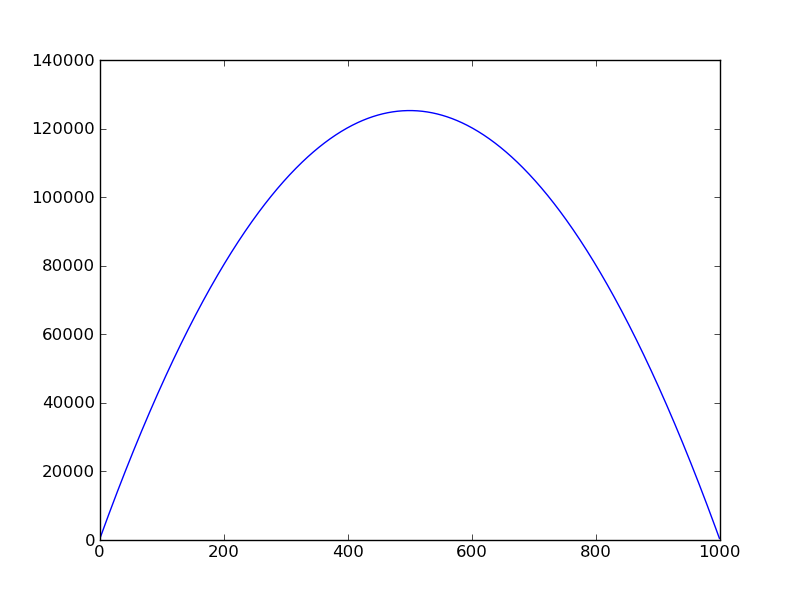
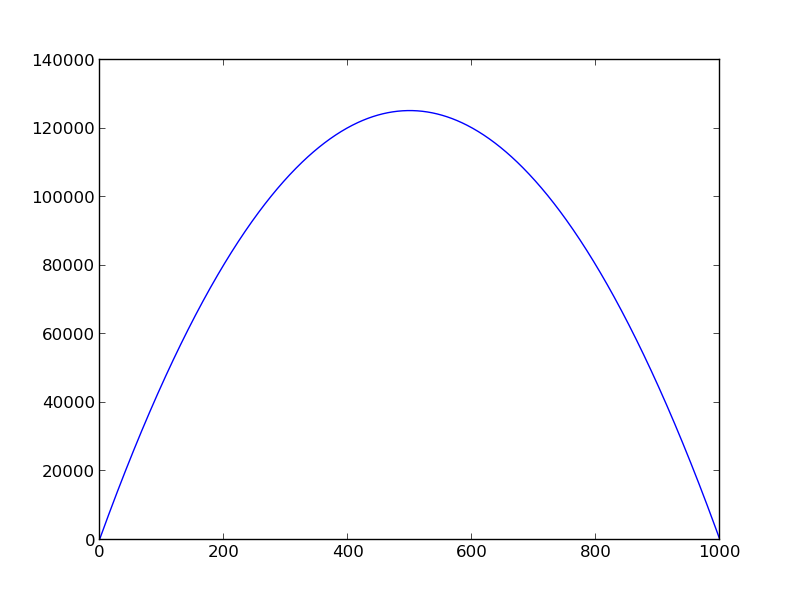
-

Changed region(s): [[0.125, 0.09, 0.9062, 0.93]]

diff --git a/compscieng1/compscieng_1_01/compscieng_1_1.tex b/compscieng1/compscieng_1_01/compscieng_1_1.tex
@@ -26,16 +26,25 @@ ozellikler? $K$'yi buyutseydik, seyrek (sparse) olacakti, yani icinde cok
 fazla sayida sifir olacakti. Su haliyle tam seyrek denemez, ama ayni
 kalipla buyutulursek seyrek olur. Eger Python kullanarak sifir olmayan
 elemanlari saydirmak isteseydik, sonuc ne gelecekti? 4x4 olan $K$ icin
-alttaki kod
+alttaki kod su sonucu verir,
 
-\lstinputlisting[language=Python]{nonzero.py}
+\begin{minted}{python}
+import numpy as np
+K = np.array([[2,-1,0,0],[-1,2,-1,0],
+              [0,-1,2,-1],[0,0,-1,2]])
+print np.count_nonzero(K)
+\end{minted}
 
-10 sonucunu verir. 4x4 = 16 icinden 10 eleman sifir degildir. Eger 100x100
-olsaydi? Matris ayni kalibi takip ederse, yani caprazi, ve caprazin bir
-alti ve bir ustu dolu kalirsa, caprazda 100 eleman olur (boyutla ayni), alt
-ve ustunde birer az eleman olur, yani 99+99 = 198. Toplayalim, 100 + 198 =
-298. Yani 100x100 = 10000 eleman icinden 298 eleman sifir degildir, geri
-kalan bir suru eleman sifirdir. Matris seyrektir. 
+\begin{verbatim}
+10
+\end{verbatim}
+
+4x4 = 16 icinden 10 eleman sifir degildir. Eger 100x100 olsaydi? Matris
+ayni kalibi takip ederse, yani caprazi, ve caprazin bir alti ve bir ustu
+dolu kalirsa, caprazda 100 eleman olur (boyutla ayni), alt ve ustunde birer
+az eleman olur, yani 99+99 = 198. Toplayalim, 100 + 198 = 298. Yani 100x100
+= 10000 eleman icinden 298 eleman sifir degildir, geri kalan bir suru
+eleman sifirdir. Matris seyrektir.
 
 Numerik hesaplamada yogun (dense -sifiri fazla olmayan-) matrisler, buyuk
 boyutlarda basimizi agritabilir. Seyrek matrisleri daha hizli cozmenin
@@ -52,26 +61,33 @@ filtreler (linear time invariant filters) ismi de veriliyor, cunku her
 satir birbirinin ayni (ve hesabimizda satirlarin zamani temsil ettigi
 kabulunden hareketle). Python ile bir Toeplitz yaratmanin yontemi soyle:
 
-\lstinputlisting[language=Python]{toep1.py}
+\begin{minted}{python}
+import scipy.linalg as lin
+K = lin.toeplitz([2, -1, 0, 0])
+print K
+\end{minted}
 
-Sonuc
-
-\begin{lstlisting}[language=Python]
+\begin{verbatim}
 [[ 2 -1  0  0]
  [-1  2 -1  0]
  [ 0 -1  2 -1]
  [ 0  0 -1  2]]
-\end{lstlisting}
+\end{verbatim}
 
 100x100 icin Toeplitz komutuna verdigimiz tek satirda daha fazla sifir
 gerekli. Icinde tamamen sifir olan bir vektor yaratiriz, basindaki birkac
 elemani istedigimiz degerle atariz. 
 
-\lstinputlisting[language=Python]{toep2.py}
+\begin{minted}{python}
+import numpy as np
+import scipy.linalg as lin
+vec = np.zeros((1,100))
+vec[0,0] = 2
+vec[0,1] = -1
+print lin.toeplitz(vec)
+\end{minted}
 
-Sonuc
-
-\begin{lstlisting}[language=Python]
+\begin{verbatim}
 [[ 2. -1.  0. ...,  0.  0.  0.]
  [-1.  2. -1. ...,  0.  0.  0.]
  [ 0. -1.  2. ...,  0.  0.  0.]
@@ -79,13 +95,27 @@ Sonuc
  [ 0.  0.  0. ...,  2. -1.  0.]
  [ 0.  0.  0. ..., -1.  2. -1.]
  [ 0.  0.  0. ...,  0. -1.  2.]]
-\end{lstlisting}
+\end{verbatim}
 
 Seyrek matrislerle islem yaptigimizi Python'a bir sekilde belirtmemiz
 lazim, eger mevcut haliyle bu matrisi cozmeye ugrasirsak, Python sifirlara
 gelene kadar onlarin sifir oldugunu bilemeyecektir. 
 
-\lstinputlisting[language=Python]{sparse.py}
+\begin{minted}{python}
+import scipy.sparse as sparse
+import numpy as np
+import scipy.linalg as lin
+vec = np.zeros((1,100))
+vec[0,0] = 2
+vec[0,1] = -1
+K = lin.toeplitz(vec)
+A = sparse.lil_matrix(K)
+print A.shape
+\end{minted}
+
+\begin{verbatim}
+(100, 100)
+\end{verbatim}
 
 Yanliz yukarida yogun matrisi once yarattim, sonra onu degistirerek seyrek
 matris yarattim, daha iyisi bastan bir seyrek matris yaratmakti. Neyse, bu
@@ -111,31 +141,31 @@ istiyorum. Orayi temizlemek istiyorum, cunku matrislerim eger ucgensel
 Birinci satiri ikiye bolup, ikinci satira eklerim. Terminoloji: 0,0
 kordinati (en ust sol kose) bu islem sirasinda pivot oldu. 
 
-\begin{lstlisting}[language=Python]
+\begin{verbatim}
  [ 2 -1    0  0]
  [ 0  3/2 -1  0]
  [ 0 -1    2 -1]
  [ 0  0   -1  2]
-\end{lstlisting}
+\end{verbatim} 
 
 Simdi pivot 3/2, ve onun altindaki degeri temizlemek istiyoruz. Ikinci
 satirin 2/3'unu alta eklersek, oradaki -1 sifirlanir. 
 
-\begin{lstlisting}[language=Python]
+\begin{verbatim}
  [ 2 -1    0    0]
  [ 0  3/2 -1    0]
  [ 0  0    4/3 -1]
  [ 0  0   -1    2]
-\end{lstlisting}
+\end{verbatim}
 
 ve sonunda
 
-\begin{lstlisting}[language=Python]
+\begin{verbatim}
  [ 2 -1    0      0]
  [ 0  3/2 -1      0]
  [ 0  0    4/3   -1]
  [ 0  0    0    5/4]
-\end{lstlisting}
+\end{verbatim}
 
 Bu gercekten hizli bir islem oldu. Python da determinanti zaten boyle
 bulacakti. Yoketme (elimination) kullanacakti, teker teker -1'leri
@@ -301,7 +331,25 @@ K, T, B, C matrislerini ayni anda yaratan bir Python programi
 surada. Kullanim mesela 4x4 boyutlari icin \lstinline!K, T, B, C = ktbc(4)!
 seklinde, bu bize tum ozel matrisleri bir kerede olusturuyor.
 
-\lstinputlisting[language=Python]{ktbc.py}
+\begin{minted}{python}
+import numpy as np
+import scipy.linalg as lin
+
+def ktbc(n):
+    vec = np.zeros((1,n))
+    vec[0,0] = 2
+    vec[0,1] = -1
+    K = lin.toeplitz(vec)
+    T = np.copy(K)
+    T[0,0] = 1
+    B = np.copy(K)
+    B[0,0] = 1
+    B[n-1,n-1] = 1
+    C = np.copy(K)
+    C[n-1,n-1] = 1
+    
+    return K, T, B, C
+\end{minted}
 
 Kapatirken su ozellikleri de ekleyelim. 
 
@@ -324,14 +372,21 @@ dogru farklilik (backward difference) matrisi de yaratabiliriz. Bu
 kullanimda matrisin sol kolonunu, ve ust satirini tamamen belirtmek
 gerekiyor.
 
-\lstinputlisting[language=Python]{toep3.py}
+\begin{minted}{python}
+import numpy as np
+import scipy.linalg as lin
 
-\begin{lstlisting}[language=Python]
+D = lin.toeplitz([1, -1, 0, 0], [1, 0, 0, 0])
+print D
+\end{minted}
+
+
+\begin{verbatim}
 [[ 1  0  0  0]
  [-1  1  0  0]
  [ 0 -1  1  0]
  [ 0  0 -1  1]]
-\end{lstlisting}
+\end{verbatim}
 
 Cozulmus Soru 1.1 B
 
@@ -372,22 +427,122 @@ carpilirsa her kolon icindeki sirayi tersine ceviriyor. $J*T*J$ carpimi
 aradigimiz sonuc. Yani satirlari cevirdikten sonra, kolonlari cevirince
 istedigimiz sonuca erisiyoruz. Python kodlari
 
-\lstinputlisting[language=Python]{flip.py}
+\begin{minted}{python}
+import numpy as np
+import scipy.linalg as lin
+T = lin.toeplitz([2, -1, 0])
+T[0,0] = 1
+J = np.fliplr(np.eye(3))
+print T
+print np.dot(T,J)
+print np.dot(J, np.dot(T,J))
+\end{minted}
+
+\begin{verbatim}
+[[ 1 -1  0]
+ [-1  2 -1]
+ [ 0 -1  2]]
+[[ 0. -1.  1.]
+ [-1.  2. -1.]
+ [ 2. -1.  0.]]
+[[ 2. -1.  0.]
+ [-1.  2. -1.]
+ [ 0. -1.  1.]]
+\end{verbatim}
 
 Soru 1.1 2
 
-\lstinputlisting[language=Python]{1.1.2.py}
+\begin{minted}{python}
+import numpy as np
+import scipy.linalg as lin
+
+T = lin.toeplitz([2, -1, 0])
+
+T[0,0] = 1
+
+U = np.array([[1, -1, 0],
+              [0, 1, -1],
+              [0, 0, 1]])
+
+print np.dot(U.T,U)
+print np.dot(U,lin.inv(U))
+print np.dot(lin.inv(U), lin.inv(U).T)
+\end{minted}
+
+\begin{verbatim}
+[[ 1 -1  0]
+ [-1  2 -1]
+ [ 0 -1  2]]
+[[ 1.  0.  0.]
+ [ 0.  1.  0.]
+ [ 0.  0.  1.]]
+[[ 3.  2.  1.]
+ [ 2.  2.  1.]
+ [ 1.  1.  1.]]
+\end{verbatim}
 
 Soru 1.1.5
 
-\lstinputlisting[language=Python]{1.1.5.py}
+\begin{minted}{python}
+import numpy as np
+import scipy.linalg as lin
+
+K, T, B, C = ktbc(3)
+print lin.inv(K)
+print lin.det(K)
+print lin.det(K) * lin.inv(K)
+
+K, T, B, C = ktbc(5)
+print lin.det(K)
+print lin.inv(K)
+print lin.det(K) * lin.inv(K)
+\end{minted}
+
+\begin{verbatim}
+[[ 0.75  0.5   0.25]
+ [ 0.5   1.    0.5 ]
+ [ 0.25  0.5   0.75]]
+4.0
+[[ 3.  2.  1.]
+ [ 2.  4.  2.]
+ [ 1.  2.  3.]]
+6.0
+[[ 0.83333333  0.66666667  0.5         0.33333333  0.16666667]
+ [ 0.66666667  1.33333333  1.          0.66666667  0.33333333]
+ [ 0.5         1.          1.5         1.          0.5       ]
+ [ 0.33333333  0.66666667  1.          1.33333333  0.66666667]
+ [ 0.16666667  0.33333333  0.5         0.66666667  0.83333333]]
+[[ 5.  4.  3.  2.  1.]
+ [ 4.  8.  6.  4.  2.]
+ [ 3.  6.  9.  6.  3.]
+ [ 2.  4.  6.  8.  4.]
+ [ 1.  2.  3.  4.  5.]]
+\end{verbatim}
 
 Soru 1.1.22
 
 Cozulmesi istenen denklem $du^2/dx^2 = 1$, elastik cubuk problemi ve
 cubugun iki tarafi sabitlenmis.
 
-\lstinputlisting[language=Python]{1.1.22.py}
+\begin{minted}{python}
+import scipy.sparse as sparse
+import scipy.sparse.linalg
+import numpy as np
+import scipy.linalg as lin
+import matplotlib.pyplot as plt
+
+n = 1000
+vec = np.zeros((1,n))
+vec[0,0] = 2; vec[0,1] = -1
+K = lin.toeplitz(vec)
+A = sparse.csc_matrix(K)
+e = np.ones((n,1))
+
+u = sparse.linalg.spsolve(A,e)
+plt.plot(u)
+plt.savefig('1-1-22.png')
+\end{minted}
+
 \includegraphics[height=5cm]{1-1-22.png}
 
 Sonuc ustteki grafik gibi olmali. Yani cozumumuz olan $u$ degerleri bir
@@ -437,7 +592,7 @@ ortalara yakin toplar, bir ustlerinden de aldiklari ek mesafe sayesinde
 daha fazla yer degistirebiliyor. Ama alt kisima yaklastikca orada bir
 birikme oluyor, cunku alt uc kisim da sabitlenmis. 
 
-\lstinputlisting[language=Python]{elastic_uniform_load.py}
+\inputminted{python}{elastic_uniform_load.py}
 
 Ekler
 

diff --git a/compscieng1/compscieng_1_01/build.py b/compscieng1/compscieng_1_01/build.py
@@ -1,12 +1,6 @@
 import os, sys
 
 if len(sys.argv) == 1 or sys.argv[1] == 'tex':
-    os.system("pdflatex compscieng_1_*.tex")
-    os.system("evince compscieng_1_*.pdf")
+    os.system("pdflatex -shell-escape compscieng_1_1.tex")
+    os.system("evince compscieng_1_1.pdf")
     exit()
-    
-if sys.argv[1] == 'zip':    
-    cmd = "zip ~/Dropbox/Public/skfiles/compscieng_1/compscieng_1_%d.zip compscieng_1_%d.tex compscieng_1_%d.pdf *.png *.py" % \
-        (int(sys.argv[2]), int(sys.argv[2]), int(sys.argv[2]))
-    os.system(cmd)
-    
